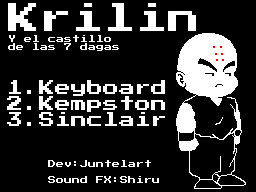
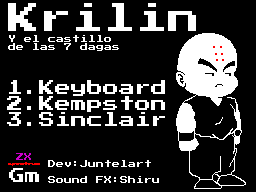
Improve documentation and added release notes

Changed region(s): [[0.0312, 0.7812, 0.1562, 0.9688]]

diff --git a/doc/03_positioning.md b/doc/03_positioning.md
@@ -4,9 +4,9 @@ Tiled es una muy buena herramienta para diseñar tus pantallas. Usando Tiled pue
 
 Nuestro juego, aunque es configurable, por defecto tendrá un tamaño de 32x22 tiles.
 
-## Creat el mapa
+## Crear el mapa
 
-Cuando crees en mapa tienes que eleccionar las siguientes propiedades:
+Cuando crees en mapa tienes que seleccionar las siguientes propiedades:
 
 * Orientation: Orthogonal.
 * Tile layer format: CSV.
@@ -28,9 +28,9 @@ Para poder distinguir bien los tiles y la división entre pantallas ves al menú
 
 ## Crear tilesets
 
-Es la hora de añadir a nuestro programa de diseño Tiled el tilesed y el spriteset para poder utilizarlo en el mismo y diseñar nuestras pantallas.
+Es la hora de añadir a nuestro programa de diseño Tiled el tileset y el spriteset para poder utilizarlo en el mismo y diseñar nuestras pantallas.
 
-Tienes que crear 2 tilesets, uno para **tiles** importando la imágen assets/tiles.png de 8x8px y otro para **spriteset** de 16x16px importando assets/sprites.png
+Tienes que crear 2 tilesets, uno para **tiles** importando la imagen assets/tiles.png de 8x8px y otro para **spriteset** de 16x16px importando assets/sprites.png
 
 Es importante seleccionar **Object Aligment** **Top Left** en las propiedades de los dos tilesets.
 
@@ -44,12 +44,41 @@ Necesitamos 2 capas, una para pintar nuestro escenario y otra para situar los el
 
 ![](./images/layers.png)
 
+## Uso básico de Tiled
+
+Usar Tiled es muy sencillo e intuitivo y tienes una documentación muy completa sobre ello [https://doc.mapeditor.org/en/stable/](https://doc.mapeditor.org/en/stable/). Aún así os dejamos unos tips muy básicos:
+
+Para pintar tiles en el mapa es necesitas tener la capa map seleccionada y después seleccionar alguna herramienta de inserción como la brocha de estampar o la herramienta de rellenado.
+
+![](images/herramientas_añadir_tiles.png)
+
+Para añadir los enemigo, los puntos como de fin de trayecto del mismo (movimiento) o de inicio del protagonista, deberás tener la capa objects seleccionada y usar una de las herramientas de añadir.
+
+![](images/herramientas_insertar_en_cap_objects.png)
+
+## Consideraciones generales
+
+### Filas uniformes
+
+Los mapas tiene que tener todas las filas con el mismo número de columnas, por ejemplo, si nuestro mapa tiene 2 "pisos" y en la planta baja hay 5 habitaciones, todos los pisos deben de tener 5 habitaciones. Si no puede acceder el usuario no pasa nada, las rellenas con el primer tile (fondo) y ya está.
+
+Ejemplo com filas distintas (incorrecto):
+
+![](images/mapa_filas_distintas.png)
+
+El mismo ejemplo con filas uniformes, todas las filas tienen las mismas "habitaciones"
+
+![](images/mapa_filas_iguales.png)
+
+### Habitaciones completas
+
+Las habitaciones tiene que estar completas, no se pueden diseñar habitaciones que les falten tiles o por ejemplo 2 habitaciones y media.
+
 ## Añadiendo elementos
 
 ### Enemigo
 
-Puedes añadir hasta 3 (de momento) enemigos en cada pantalla y configurar su movimiento (de momento sólo horizontal).
-
+Puedes añadir hasta 3 enemigos en cada pantalla y configurar su movimiento.
 
 #### Posición inicial
 
@@ -64,11 +93,34 @@ Es recomendable que le pongas un nombre al mismo para cuando referencies la posi
 
 #### Posición final
 
-* Haz clic en el butón **Insert point**.
-* Pon este punto donde quieras que para el enemigo manteniendo la tecla Ctrl y a la misma altura(Coordenada Y) que el enemigo.
-* Añade a este punto una propiedad personalizada (custom property) de tipo objeto y selecciona el enemigo relacionado con este punto.
+* Haz clic en el botón **Insert point**.
+* Pon este punto donde quieras que para el enemigo manteniendo la tecla Ctrl.
+* Añade a este punto una **propiedad personalizada** (custom property) **de tipo objeto** y selecciona el enemigo relacionado con este punto.
 
 ![](images/enemy_movement.png)
+
+#### Tipos de movimiento
+
+El enemigo permite 3 tipos de movimiento:
+* **Horizontal**, el enemigo y su trayecto están a la misma altura, es decir, la y del enemigo y del punto de destino son iguales y las x distintas.
+
+![](images/enemigos_movimiento_horizontal.png)
+
+* **Vertical**, el enemigo y su trayecto están en la misma vertical, es decir, la x del enemigo x del punto de destino son iguales y las y distintas.
+
+![](images/enemigos_movimiento_vertical.png)
+
+* **Diagonal**, el enemigo y el punto final no están a la misma altura ni en la misma vertical, es decir, ni la x del enemigo ni la y coinciden con la del punto de destino.
+
+![](images/enemigos_movimiento_diagonal.png)
+
+#### Cantidad de vida
+
+Puedes asignarle la cantidad de vida que tiene cada enemigo, por ejemplo si le pones cantidad de vida 5 el protagonista le tendrá que disparar 5 veces para matarlo.
+
+Para ello solo tienes que añadir una propiedad personalizada **life** **de tipo int** con el valor de la vida. Si no la defines, por defecto, el enemigo tiene una unidad de vida.
+
+![](images/vida_enemigo.png)
 
 ### Item
 
@@ -110,15 +162,47 @@ Después ya puedes añadirlo a tu mapa arrastrándolo.
 
 ![](images/type_life.png)
 
+### Tile de daño
+
+Este tipo de tile dañará al personaje principal cuando lo toque y este saldrá rebotado.
+
+Para setear un tile de este tipo haz clic en la rueda dentada de propiedades del tileset, selecciona el tile que desees y escribe **damage** en la casilla type.
+
+**Importante** solo puedes marcar tiles de daño **tiles sólidos**, es decir, que estén el las 2 primeras filas del tileset.
+
+### Tiles animados
+
+En ocasiones le da un aspecto más agradable que los escenarios tengan ciertos tiles animados, por ejemplo, unas velas a las que se le mueven las llamas.
+
+Para ello deberás tener preparado tu tileset con el tile que tengas pensado animar y justamente el siguiente tile sea el frame al que se intercambiará para simular el movimiento.
+
+Para setear un tile de este tipo haz clic en la rueda dentada de propiedades del tileset, selecciona el tile que desees y escribe **animated** en la casilla type.
+
+![](images/tileset_con_tiles_animados.png)
+
+![](images/velas_animadas.gif)
+
+### Tiles de daño animados
+
+A veces es interesante setear un tile con las dos propiedades anteriores, que hagan daño y que sean animados, por ejemplo una lava que tiene que dañar al protagonista y se tiene que mover. En este caso la el tipo o class (en las nievas versiones le han llamado class) ha de ser **animated-damage**
+
+![](images/tile_animated_damage.png)
+
+![](images/lava_animada.gif)
+
 ## Configuración general
 
 Puedes añadir configuraciones generales de tu juego en las propiedades personalizadas el mapa.
 
 Propiedades personalizadas:
 
+* **bulletDistance**. Distancia que queramos que recorra la bala. Si seteamos una distancia corta como de 2, da el efecto de que el personaje ataca con el arma a corta distancia como una espada.
 * **damageAmount**. Cuanto daño le hacen al personaje los enemigos.
+* **enemiesRespawn**. Con esto seteamos si queremos que los enemigos vuelvan a aparecer, aunque los hayamos matado, cuando volvemos a la habitación.
 * **goalItems**. Número de items necesarios para finalizar el juego.
 * **initialLife**. Cantidad de vida inicial del personaje.
-* **lifeAmount**. Cantidad de vide que incrementa al personaje los items **life**
+* **lifeAmount**. Cantidad de vide que incrementa al personaje los items **life**.
+* **shooting**. Con esto habilitamos o deshabilitamos el disparo del personaje.
+* **shouldKillEnemies**. Con esta propiedad activa, si una habitación tiene enemigos, no podremos salir de ella hasta que los matemos a todos.
 
 ![](images/general_settings.png)

diff --git a/doc/02_designing.md b/doc/02_designing.md
@@ -2,13 +2,13 @@
 
 Para crear tu juegos para ZX Spectrum necesitas crear/editar algunas imágenes.
 
-**Pantallas** coomo la principal, de carga, HUD... Y el **Tileset** o conjunto de tiles que usarás para diseñar tu mapa y el **Spriteset** o conjunto de sprites como el personaje principal, enemigos...
+**Pantallas** como la principal, de carga, HUD... Y el **Tileset** o conjunto de tiles que usarás para diseñar tu mapa y el **Spriteset** o conjunto de sprites como el personaje principal, enemigos...
 
 ## Pantallas
 
 Tienes que crear 4 pantallas en PNG en la carpeta assets/screens loading.png, title.png, ending.png y hud.png
 
-Para el diseño de las mismas sólo podéis utilizar la paleta de colores del spectrum, si usáis programas especialiados como [ZX Paintbrush](https://sourcesolutions.itch.io/zx-paintbrush) ya lo tienen en cuenta.
+Para el diseño de las mismas sólo podéis utilizar la paleta de colores del spectrum, si usáis programas especializados como [ZX Paintbrush](https://sourcesolutions.itch.io/zx-paintbrush) ya lo tienen en cuenta.
 
 Tenéis ejemplos en la misma carpeta para simplemente modificar las pantallas existentes y ver que requisitos tienen (tamaño...)
 
@@ -21,6 +21,12 @@ Esta imagen (assets/screens/loading.png) será usada en la pantalla de carga. Es
 ### Pantalla principal
 
 Esta imagen (assets/screens/title.png) es la que se muestra nada más cargar el juego y que debe contener las opciones que puede seleccionar el usuario.
+
+1. Teclado
+2. Kempston
+3. Sinclair
+
+Nos ayudaría bastante que en la pantalla de inicio añadieras nuestro logo. Puedes encontrar una versión para spectrum [aquí](images/logo_spectrum.png)
 
 ![](images/title.png)
 
@@ -41,15 +47,15 @@ Tiene el mismo tamaño que las anteriores pero solo necestas diseñar la parte d
 
 ### Tile Set
 
-Tienes que crear (o editar) una imágen de 256x48px (assets/tiles.png) que se usará para diseñar tus pantallas.
+Tienes que crear (o editar) una imagen de 256x48px (assets/tiles.png) que se usará para diseñar tus pantallas.
 
 ZX Game Maker trabaja con tiles de 8x8px, en consecuencia tienes disponibles 256 tiles para diseñar tus escenarios.
 
-Para crear tu tielset debes tener en cuenta algunas regla, recuerda que tienes uno de ejemplo para simplemente editarlo.
+Para crear tu tileset debes tener en cuenta algunas regla, recuerda que tienes uno de ejemplo para simplemente editarlo.
 
 * El **primer tile** está reservado para el **fondo**.
-* El **segundo tile** está reservado para **"la bala"** que disparará tu protagonista.
-* Los **siguientes 62 tiles** serán considerados como **sólidos**, es decir, cuando lo coloques en tu mapa, el protagonista no podrá traspasarlos, son los típicos que se usan para paredes, plataformas...
+* El **segundo tile** está reservado para **"la bala"** que disparará tu protagonista. El motor hace volteado horizontal automático para cuando disparas a un sentido u otro. Si tu "bala" tiene sentido solo tienes que diseñarla en este tile hacia la derecha.
+* Los **siguientes 62 tiles** serán considerados como **sólidos**, es decir, cuando lo coloques en tu mapa, el protagonista no podrá traspasarlos, son los típicos que se usan para paredes, plataformas... Si quieres añadir tiles que le causen daño al personaje principal tiene que estar en estos 62 tiles.
 
 ![](./images/tiles.png)
 
@@ -57,15 +63,13 @@ Para crear tu tielset debes tener en cuenta algunas regla, recuerda que tienes u
 
 Debes crear/editar el fichero assets/sprites.png de 256x32px añadiendo tus sprites (personaje, enemigos...) y donde cada uno de estos tendrá una dimensión de 16x16px.
 
-Los primeros 8 sprites están reservados para la animáción del protragonista, los 3 primeros para el movimiento hacia la derecha, el 4º para el salto hacia la derecha, los 3 siguientes para el movimiento hacia la izquierda, y por último, el 8º para el salto hacia la izquierda.
+Los primeros 8 sprites están reservados para la animación del protagonista, los 3 primeros para el movimiento hacia la derecha, el 4º para el salto hacia la derecha, los 3 siguientes para el movimiento hacia la izquierda, y por último, el 8º para el salto hacia la izquierda.
 
 Los siguientes 6 sprites (9 - 14) se usarán para las plataformas en movimiento encima de las cuales el protagonista podrá saltar. 3 plataformas con 2 sprites de animación para cada una.
 
-El siguiente sprite no se puede usar. No pasa nada si deseñas algo en el.
-
 El siguiente sprite se usará para mostrar la explosión del enemigo cuando lo mates.
 
-Los 16 tiles restantes se usarán para los enemigos, 4 para cada enemigo, 2 frames de animación para cada sentido, es decir, podrás definir un total de 4 enemigos.
+Los 16 sprites restantes se usarán para los enemigos, 4 para cada enemigo, 2 frames de animación para cada sentido, es decir, podrás definir un total de 4 enemigos.
 
 
 ![](./images/sprites.png)

diff --git a/RELEASE-NOTES.md b/RELEASE-NOTES.md
@@ -1,0 +1,20 @@
+# 2023-11-19
+
+## Nuevas funcionalidades
+* **Tiles que hacen daño**
+* **Tiles animados**
+* **Tiles que hacen daño y están animados**
+* **Vida de los enemigos**. La posibilidad de poder setear a cada enemigo de la pantalla que cantidad de golpes hay que darle para que muera.
+* **Respawn de enemigos**. Poder configurar si los enemigos volverán a aparecer aunque los hayas matado cuando vuelves a entrar en la habitación.
+* **Movimiento de los enemigos en todas las direcciones**. (Horizontal, vertical y diagonal)
+* **Distancia de la bala**. Posibilidad de configurar que alcance tiene la bala.
+* **Habilitar/Deshabilitar disparo**. Posibilidad de decidir si el personaje puede disparar o no.
+* **Obligación de matar a los enemigos** Si esta propiedad está activa, cuando el protagonista entra en una habitación con enemigos, está obligado a matar a todos los enemigos para acceder a otra.
+* **Efectos de sonido a medida**. Poder crear los efectos de sonido para las distintas acciones que acontecen en el juego (disparo, recolectar item...)
+* **Volteado de bala**. El motor volteará horizontalmente la bala en función de si el protagonista dispara a derecha o izquierda.
+
+## Mejoras técnicas
+* **Suavizado de animaciones**
+* **Compresión de mapa**
+* **Autocorreción de screens**. Si el usuario usa colores no permitidos en ZX Spectrum, la autocorrección lo reemplazará con el color se spectrum más parecido.
+* **Autocorreción de posición de elementos**. Si el usuario coloca algún objeto (enemigo, punto...) en una posición intermedia (40.5), este se aproximará al punto correcto más cercano.

diff --git a/doc/04_fx.md b/doc/04_fx.md
@@ -1,0 +1,27 @@
+# Efectos de sonido
+
+Para personalizar los efectos de sonido debes utilizar la aplicación de [shiru8bit](http://shiru.untergrund.net) BeepFX (http://shiru.untergrund.net/files/beepfx.zip)
+
+ZX Game Maker necesita que definas 7 sonidos. Se reproducirán cuando en el juego sucedan cualquiera de las siguiente acciones:
+
+* **Eliminar enemigo**
+* **Daño enemigo**. Cuando la bala golpea al enemigo pero no le mata.
+* **Disparo**
+* **Llave**. Cuando el personaje recoge una llave.
+* **Abrir puerta**
+* **Item**. Cuando el personaje recoge un item.
+* **Vida**. Cuando el personaje recoge un elemento que le recupera vida.
+
+![](images/beepfx.png)
+
+# Exportar para ZX Game Maker
+
+Para exportar tus efectos de sonido para el ZX Spectrum Game Maker, sólo tendrás que ir al menu File > Compile. Seleccionar **Assembly** e **Include player code**, pulsar **Compile** y guardar el archivo en tu carpeta **assets** con el nombre **soundEffects.asm**
+
+![](images/beepfx_compile.png)
+
+Solo con esto, al volver a ejecutar el generador de juego (make-game), ya se aplicarán tu sonidos.
+
+Si esto lo ves complicado y quieres dejarlo para más adelante, ya tienes unos sonidos predeterminados.
+
+**Si decides usar estos sonidos predeterminados, es muy importante que en tu juego pongas la atribución al autor que es [shiru8bit](http://shiru.untergrund.net)**

diff --git a/doc/00_index.md b/doc/00_index.md
@@ -4,10 +4,13 @@
 Como instalar los programas básicos para generar tu juego. 
 
 ## [Diseñando](02_designing.md)
-Necesitas diseñar algunas imágenes para tu juego, pantallas como la pantalla de carge, la principal... Y otras imágenes de apoyo que te permitirá poder diseñar tus pantallas con Tiled
+Necesitas diseñar algunas imágenes para tu juego, pantallas como la pantalla de carga, la principal... Y otras imágenes de apoyo que te permitirá poder diseñar tus pantallas con Tiled
  
-## [Positionando los elementos](03_positioning.md)
+## [Posicionando los elementos](03_positioning.md)
 **Tiled** es una gran herramienta para diseñar mapas de juegos y posicionar los elementos como enemigos, llaves, puertas... en el mismo.
 
-## [Generating](04_generating.md)
+## [Modificando los efectos de sonido. FX.](04_fx.md)
+Con ZX Game Maker podrás personalizar los sonidos que se reproducen en el juego en acciones como disparar, recoger un item...
+
+## [Generating](05_generating.md)
 Una vez realizadas las acciones de diseño y creación de las pantallas, sólo nos queda generar nuestro juego.

diff --git a/doc/05_generating.md b/doc/05_generating.md
@@ -1,0 +1,31 @@
+# Generando nuestro juego
+
+## Consideraciones generales
+
+Todo lo relativo a tu proyecto está dentro de la carpeta assets, te recomiendo que vayas haciendo copia de esta carpeta de manera manual o con un sistema versionado.
+
+## Ejecutando el script de generación
+
+En la consola de comandos dentro de la carpeta de tu juego
+
+### Linux
+
+```bash
+./make-game-lin.sh
+```
+
+### Windows
+
+```bash
+make-game-win.bat
+```
+
+### MacOS
+
+```bash
+./game-game-mac.sh
+```
+
+## Actualizaciones
+
+Al ejecutar el motor que transformará tu diseño en tiled en un juego de ZX Spectrum lo primero que hará el motor es intentar actualizarse, con lo cual si hay mejoras que no rompen con la compatibilidad anterior se descargará automáticamente y no te tienes que preocupar de ir actualizando.
